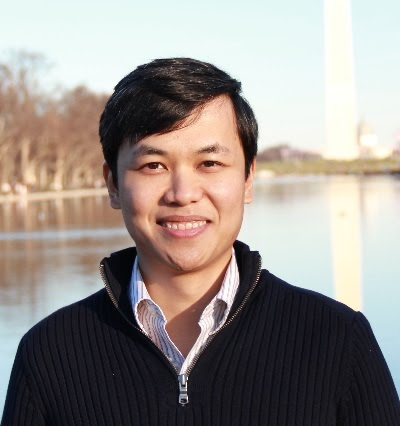
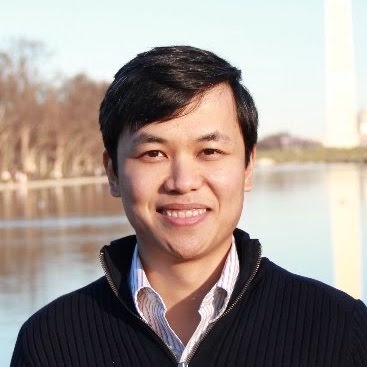
Update the people page
BootStrap solutions have been scrapped for this page. This page is now
formatted through pure CSS. Additionally, the pictures for people need
to now be as square as possible, preferably greater than 130px x 130px
in size.

diff --git a/people.html b/people.html
@@ -3,90 +3,82 @@ layout: page
 ---
 
 <style>
-  .crop {
-    height: 150px;
-    overflow: hidden;
+div .member-images, .alumni-images {
+  display: flex;
+  flex-wrap: wrap;
+  justify-content: space-around;
+}
+.member-image, .alumni-image {
+  font-size: 16px;
+  display: inline-block;
+  width: calc(33% - 4px);
+  max-width: 130px;
+  object-fit: cover;
+  padding: 0px 4px;
+}
+@media screen and (min-width: 768px){
+  .member-image, .alumni-image {
+    width: calc(25% - 4px);
   }
-  .crop img {
-    border: 1px solid black;
-  }
-  .name {
-    height: 75px;
-    overflow: auto;
-    position: absolute;
-    bottom: 0;
-  }
-  .outer-box {
-    position: relative;
-    height: 225px;
-  }
+}
+
+.crop-image {
+  max-height: 130px;
+  object-fit: cover;
+  max-width: 100%;
+  border: 1px solid black;
+  border-radius: 5px;
+}
 
 </style>
 
 <h2>Current Lab Members</h2>
 
-<ul id="lab-members-list">
-  <div class="row">
-    <div class="col col-md-10">
-      {% for member in site.data.members %}
-        <div class="col col-md-3 outer-box">
-          <div class="crop">
-            <a href="{{member.site}}">
-              <!-- All members have a site listed-->
-              {% if member.img %}
-                <img src="/img/people/{{member.img}}" class="img-fluid" alt="Image of {{member.name}}">
-              {% else %}
-                <img src="/img/people/blank.png" class="img-fluid" alt="Image of {{member.name}} not found">
-              {% endif %}
-            </a>
-          </div>
-          <div class="name">
-            <a href="{{member.site}}">
-              <!--All members have a site listed-->
-              {{member.name}}
-              {% if member.status %}
-                [{{ member.status }}]
-              {% endif %}
-            </a>
-          </div>
-        </div>
-      {% endfor %}
-    </div>
-  </div>
-
-</ul>
+<div class="member-images">
+  {% for member in site.data.members %}
+    <a class="member-image {{member.name}}" href="{{member.site}}">
+      <figure>
+        <!-- All members have a site listed-->
+        {% if member.img %}
+          <img class="crop-image" src="/img/people/{{member.img}}" alt="Image of {{member.name}}">
+        {% else %}
+          <img class="crop-image" src="/img/people/blank.png" alt="Image of {{member.name}} not found">
+        {% endif %}
+        <!--All members have a site listed-->
+        <figcaption>
+          {{member.name}}
+          {% if member.status %}
+            [{{ member.status }}]
+          {% endif %}
+        </figcaption>
+      </figure>
+    </a>
+  {% endfor %}
+</div>
 
 <h2>Lab Alumni</h2>
 
-<ul id="lab-alumni-list">
-  <div class="row">
-    <div class="col col-md-10">
-      {% for alumni in site.data.alumni %}
-        <div class="col col-md-3 outer-box">
-          <div class="crop">
-            {% if alumni.site %}
-              <a href="{{alumni.site}}">
-              {% endif %}
-              {% if alumni.img %}
-                <img src="/img/people/{{alumni.img}}" class="img-fluid" alt="Image of {{alumni.name}}">
-              {% else %}
-                <img src="/img/people/blank.png" class="img-fluid" alt="Image of {{alumni.name}} not found">
-              {% endif %}
-            </a>
-            <!-- Would this be considered bad code? -->
-          </div>
-          <div class="name">
-            {% if alumni.site %}
-              <a href="{{alumni.site}}">
-              {% endif %}
-              {{ alumni.name }}
-              {% if alumni.status %}
-                [{{ alumni.status }}]
-              {% endif %}
-            </a>
-          </div>
-        </div>
-      {% endfor %}
-    </div>
-  </div>
-</ul>
+<div class="alumni-images">
+  {% for alumni in site.data.alumni %}
+    {% if alumni.site %}
+    <a class="alumni-image {{alumni.name}}" href="{{alumni.site}}">
+    {% else %}
+    <a class="alumni-image {{alumni.name}}">
+    {% endif %}
+      <figure>
+        {% if alumni.img %}
+          <img class="crop-image" src="/img/people/{{alumni.img}}" alt="Image of {{alumni.name}}">
+        {% else %}
+          <img class="crop-image" src="/img/people/blank.png" alt="Image of {{alumni.name}} not found">
+        {% endif %}
+        <!--All members have a site listed-->
+        <figcaption>
+          {{alumni.name}}
+          {% if alumni.status %}
+            [{{ alumni.status }}]
+          {% endif %}
+        </figcaption>
+      </figure>
+    </a>
+  {% endfor %}
+</div>
